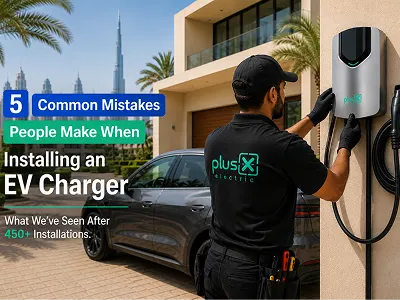
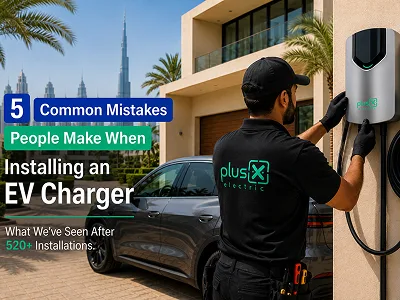
update facts number

diff --git a/src/components/roadsideAssistanceService/rsaIntro/rsaIntro.jsx b/src/components/roadsideAssistanceService/rsaIntro/rsaIntro.jsx
@@ -3,7 +3,7 @@ import IntroSection from "@/sharedComponents/introSection/introSection";
 const introData = [
   {
     // title   : "EV Breakdown Assistance in Dubai",
-    content           : `Stuck on Sheikh Zayed Road with a dead battery? Parked in Marina and your EV won't start? We'll reach you within 60 minutes*, depending on \nyour location, and in most cases, you won't need a tow — we charge your EV on the spot. At <a href="https://plusxelectric.com/" target="__blank">PlusX Electric</a>, we've rescued more than 1000+ \nelectric vehicles across Dubai, with an average response time of under 60 minutes. We've learned one thing that matters: traditional \nbreakdown services aren't built for EVs. They arrive with a tow truck when all you really need is a charge. Our team comes with a \n<a href="https://plusxelectric.com/mobile-ev-charging-dubai" target="__blank">mobile charging van</a>, delivers up to 10 kWh of DEWA-approved power directly into your battery — roughly 50 to 70 km of range \n— and gets you moving again, starting from AED 185* + VAT. If your car won't start because the 12V auxiliary battery is dead \n(which causes roughly half of all EV breakdowns in Dubai), we jump-start it on the spot. Your main battery could be at 80 \npercent — the car just needs its 12V woken up. We fix that in 15 minutes. No tow truck. No workshop. No wasted day. \nWhether you're driving a Tesla, BYD, BMW, Mercedes EQ, Nissan, Audi, Hyundai, Porsche, MG, or any other electric \nmodel, we've got it covered. We serve every area of Dubai — from Downtown and Business Bay to Palm \nJumeirah and beyond — 24 hours a day, 7 days a week. We also reach building parking garages,\n hotel underground areas, and villa compounds where tow trucks physically cannot enter. Book \ninstantly through the PlusX Electric app (trusted by 11000+ EV drivers in the\n UAE), or call us on <a href="tel:+971543061473">+971 54 306 1473</a> if you're already stranded.`,
+    content           : `Stuck on Sheikh Zayed Road with a dead battery? Parked in Marina and your EV won't start? We'll reach you within 60 minutes*, depending on \nyour location, and in most cases, you won't need a tow — we charge your EV on the spot. At <a href="https://plusxelectric.com/" target="__blank">PlusX Electric</a>, we've rescued more than 1,150+ \nelectric vehicles across Dubai, with an average response time of under 60 minutes. We've learned one thing that matters: traditional \nbreakdown services aren't built for EVs. They arrive with a tow truck when all you really need is a charge. Our team comes with a \n<a href="https://plusxelectric.com/mobile-ev-charging-dubai" target="__blank">mobile charging van</a>, delivers up to 10 kWh of DEWA-approved power directly into your battery — roughly 50 to 70 km of range \n— and gets you moving again, starting from AED 185* + VAT. If your car won't start because the 12V auxiliary battery is dead \n(which causes roughly half of all EV breakdowns in Dubai), we jump-start it on the spot. Your main battery could be at 80 \npercent — the car just needs its 12V woken up. We fix that in 15 minutes. No tow truck. No workshop. No wasted day. \nWhether you're driving a Tesla, BYD, BMW, Mercedes EQ, Nissan, Audi, Hyundai, Porsche, MG, or any other electric \nmodel, we've got it covered. We serve every area of Dubai — from Downtown and Business Bay to Palm \nJumeirah and beyond — 24 hours a day, 7 days a week. We also reach building parking garages,\n hotel underground areas, and villa compounds where tow trucks physically cannot enter. Book \ninstantly through the PlusX Electric app (trusted by 12,300+ EV drivers in the\n UAE), or call us on <a href="tel:+971543061473">+971 54 306 1473</a> if you're already stranded.`,
     additionalContent : `<i>Final price may vary based on time of service, location, and additional requirements. Confirmed quote shown in the app before dispatch.</i>`,
     
     // secondTitle      : "What Is EV Breakdown Assistance?",

diff --git a/src/data/blogsList/fiveCommonMistakes.js b/src/data/blogsList/fiveCommonMistakes.js
@@ -18,7 +18,7 @@ export const fiveCommonMistakes = [
   },
   {
     type: "paragraph",
-    text: `After 450+ installs across Dubai, Abu Dhabi and the rest of the UAE — in villas, flats, townhouses, and a few homes where the power point was a long way from the car — we don't see these as one-off problems anymore. They are patterns. The same few mistakes come up in every emirate. And almost all of them happen before we arrive, usually in a car showroom, decided by someone whose job was to sell a car, not to think about how your home is wired.`,
+    text: `After 520+ installs across Dubai, Abu Dhabi and the rest of the UAE — in villas, flats, townhouses, and a few homes where the power point was a long way from the car — we don't see these as one-off problems anymore. They are patterns. The same few mistakes come up in every emirate. And almost all of them happen before we arrive, usually in a car showroom, decided by someone whose job was to sell a car, not to think about how your home is wired.`,
   },
   {
     type: "paragraph",
@@ -212,7 +212,7 @@ export const fiveCommonMistakes = [
   },
   {
     type: "paragraph",
-    text: "That is the difference 450 installs makes. We are not here to sell you the most powerful box on the shelf. We would rather spend ten minutes finding out what your car can actually take, how much power your home can spare in August, how far the cable has to go, and where the unit can sit out of the sun — and then build the install around those answers."
+    text: "That is the difference 520 installs makes. We are not here to sell you the most powerful box on the shelf. We would rather spend ten minutes finding out what your car can actually take, how much power your home can spare in August, how far the cable has to go, and where the unit can sit out of the sun — and then build the install around those answers."
   },
   {
     type: "paragraph",
@@ -291,9 +291,9 @@ export const fiveCommonMistakes = [
         "@context": "https://schema.org",
         "@type": "Article",
 
-        "headline": "5 Common Mistakes People Make When Installing an EV Charger: What We've Seen After 450 Installations",
+        "headline": "5 Common Mistakes People Make When Installing an EV Charger: What We've Seen After 520 Installations",
         "name": "5 EV Charger Installation Mistakes to Avoid | PlusX Electric",
-        "description": "After 450+ EV charger installations across the UAE, discover the five most common installation mistakes—including choosing the wrong charger size, inadequate electrical capacity, incorrect cabling, missing safety isolation, and poor charger placement—and learn how to avoid them.",
+        "description": "After 520+ EV charger installations across the UAE, discover the five most common installation mistakes—including choosing the wrong charger size, inadequate electrical capacity, incorrect cabling, missing safety isolation, and poor charger placement—and learn how to avoid them.",
         "image": `${BASE_URL}${blogImage.src}`,
 
         "author": {
@@ -351,7 +351,7 @@ export const fiveCommonMistakes = [
         "about": {
           "@type": "Thing",
           "name": "Common EV Charger Installation Mistakes in the UAE",
-          "description": "A practical guide based on more than 450 EV charger installations explaining how to choose the correct charger, assess home electrical capacity, select proper cabling, ensure electrical safety, and install chargers in suitable outdoor locations."
+          "description": "A practical guide based on more than 520 EV charger installations explaining how to choose the correct charger, assess home electrical capacity, select proper cabling, ensure electrical safety, and install chargers in suitable outdoor locations."
         },
 
         "isPartOf": {

diff --git a/src/app/(main)/(services)/ev-breakdown-assistance/page.jsx b/src/app/(main)/(services)/ev-breakdown-assistance/page.jsx
@@ -18,7 +18,7 @@ import StickyBar    from "@/components/roadsideAssistance/mobileStickyBar/mobile
 const BASE_URL = process.env.NEXT_PUBLIC_BASE_URL;
 export const metadata = {
   title         : "EV Roadside Assistance Dubai | Emergency EV Charging 24/7",
-  description   : "1000+ EVs rescued across Dubai. We charge your EV on the spot — no tow. 12V jump-start included. EV breakdown assistance in 60 min*, from AED 185 + VAT.",
+  description   : "1,150+ EVs rescued across Dubai. We charge your EV on the spot — no tow. 12V jump-start included. EV breakdown assistance in 60 min*, from AED 185 + VAT.",
   // keywords      : ["plusx", "plusxelectric", "plusx electric", "EV Roadside Assistance service", "On-demand EV roadside assistance service", "emergency ev charging service in dubai", "emergency ev roadside assistance"],
   alternates    : {
       canonical : `${BASE_URL}/ev-breakdown-assistance`,
@@ -28,7 +28,7 @@ export const metadata = {
    },
   openGraph     : {
     title       : "EV Roadside Assistance Dubai | Emergency EV Charging 24/7 | PlusX Electric",
-    description : "1000+ EVs rescued across Dubai. We charge your EV on the spot — no tow. 12V jump-start included. EV breakdown assistance in 60 min*, from AED 185 + VAT.",
+    description : "1,150+ EVs rescued across Dubai. We charge your EV on the spot — no tow. 12V jump-start included. EV breakdown assistance in 60 min*, from AED 185 + VAT.",
     url         : `${BASE_URL}/ev-breakdown-assistance`,
     type        : "website",
     siteName    : "PlusX Electric",
@@ -48,7 +48,7 @@ export const metadata = {
     card        : "summary_large_image",
     site        : "@plusxelectric",
     title       : "EV Roadside Assistance Dubai | Emergency EV Charging 24/7 | PlusX Electric",
-    description : "1000+ EVs rescued across Dubai. We charge your EV on the spot — no tow. 12V jump-start included. EV breakdown assistance in 60 min*, from AED 185 + VAT.",
+    description : "1,150+ EVs rescued across Dubai. We charge your EV on the spot — no tow. 12V jump-start included. EV breakdown assistance in 60 min*, from AED 185 + VAT.",
     images      : [
       {
         url : "https://plusxelectric.com/PlusX-Electric-EV-roadside-assistance-in-dubai.jpeg",
@@ -64,7 +64,7 @@ const structuredData = {
   "@id"           : "https://plusxelectric.com/ev-breakdown-assistance#service",
   "name"          : "EV Breakdown Assistance in Dubai",
   "alternateName" : [ "EV Roadside Assistance Dubai", "Electric Vehicle Rescue Dubai", "EV Emergency Service Dubai" ],
-  "description"   : "24/7 EV breakdown assistance in Dubai with on-site mobile charging and 12V jump-start service. PlusX Electric has rescued 1000+ electric vehicles across Dubai with a typical response time of 60 minutes. No unnecessary towing — we bring the charge to you.",
+  "description"   : "24/7 EV breakdown assistance in Dubai with on-site mobile charging and 12V jump-start service. PlusX Electric has rescued 1,150+ electric vehicles across Dubai with a typical response time of 60 minutes. No unnecessary towing — we bring the charge to you.",
   "url"           : `${BASE_URL}/ev-breakdown-assistance`,
   "serviceType"   : "Electric Vehicle Breakdown Assistance",
   "category"      : "Automotive Emergency Service",

diff --git a/src/components/roadsideAssistanceService/whyChoose/whyChoose.jsx b/src/components/roadsideAssistanceService/whyChoose/whyChoose.jsx
@@ -27,7 +27,7 @@ function WhyChoose() {
 
             <ul className={style.keyPoint}>
               {/* <li>EV Specialists, Not Generic Mechanics</li>
-              <li>1000+ EVs Rescued Across Dubai</li>
+              <li>1,150+ EVs Rescued Across Dubai</li>
               <li>60-Minute Response Time (depending on your location)</li>
               <li>No Unnecessary Towing</li>
               <li>Instant Booking Through the App</li>
@@ -36,11 +36,11 @@ function WhyChoose() {
               {/* <li><Link href="/mobile-ev-charging-dubai" target="__blank" className={style.linkColor}>Mobile on-site EV charging</Link> units</li> */}
 
               <li><b>EV Specialists, Not Generic Mechanics —</b> Our technicians are trained specifically on electric vehicle systems, including high-voltage battery packs, 12V auxiliary diagnostics, and charge port troubleshooting across all major brands.</li>
-              <li><b>1000+ EVs Rescued Across Dubai —</b> Real experience with real breakdowns, not theoretical training. We&apos;ve handled dead batteries on Sheikh Zayed Road, 12V failures in JLT building parking, and stuck charge connectors in Palm Jumeirah villas.</li>
-              <li><b>60-Minute Response Time —</b> Depending on your location, our average dispatch-to-arrival time across 1000+ rescues is under 60 minutes.</li>
+              <li><b>1,150+ EVs Rescued Across Dubai —</b> Real experience with real breakdowns, not theoretical training. We&apos;ve handled dead batteries on Sheikh Zayed Road, 12V failures in JLT building parking, and stuck charge connectors in Palm Jumeirah villas.</li>
+              <li><b>60-Minute Response Time —</b> Depending on your location, our average dispatch-to-arrival time across 1,150+ rescues is under 60 minutes.</li>
               <li><b>No Unnecessary Towing —</b> We resolve the vast majority of breakdowns on-site with mobile charging or 12V jump-start. Towing is used only when on-site recovery is genuinely not feasible.</li>
               <li><b>Building Parking Access —</b>  Our vans fit in building parking garages where flatbed tow trucks cannot enter. We reach underground levels, podium parking, and multi-storey structures across Dubai.</li>
-              <li><b>Instant Booking Through the App —</b>  The PlusX Electric app is trusted by 11000+ EV drivers in the UAE. Book a rescue in under 60 seconds. <i>Transparent Pricing — From AED 185* + VAT</i> — No hidden fees. Your confirmed quote is shown in the app before dispatch.</li>
+              <li><b>Instant Booking Through the App —</b>  The PlusX Electric app is trusted by 12,300+ EV drivers in the UAE. Book a rescue in under 60 seconds. <i>Transparent Pricing — From AED 185* + VAT</i> — No hidden fees. Your confirmed quote is shown in the app before dispatch.</li>
               <li><b>Available 24/7, Every Day of the Year —</b>  Breakdowns don&apos;t follow business hours. Neither do we.</li>
             </ul>
 

diff --git a/src/data/testimonials.js b/src/data/testimonials.js
@@ -90,20 +90,20 @@ export const testimonials = [
   },
   {
     slug            : "ev-charger-installation-mistakes-uae",
-    title           : "5 Common Mistakes People Make When Installing an EV Charger What We've Seen After 450+ Installations",
+    title           : "5 Common Mistakes People Make When Installing an EV Charger What We've Seen After 520+ Installations",
     image           : commonMistakes,
     alt             : "PlusX Electric technician installing a home EV charger on a villa wall in the UAE",
     metaTitle       : "5 EV Charger Installation Mistakes to Avoid | PlusX Electric",
-    metaDescription : "After 450+ EV charger installs across the UAE, see the 5 mistakes owners make — wrong charger size, weak supply, cheap cable, no isolator, poor placement.",
+    metaDescription : "After 520+ EV charger installs across the UAE, see the 5 mistakes owners make — wrong charger size, weak supply, cheap cable, no isolator, poor placement.",
     content         : fiveCommonMistakes,
   },
   {
     slug            : "ev-battery-mistakes-dubai",
-    title           : "9 EV Battery Mistakes We See Every Week in Dubai After Servicing 6,800+ EVs",
+    title           : "9 EV Battery Mistakes We See Every Week in Dubai After Servicing 12,300+ EVs",
     image           : evBattaryMistake,
     alt             : "EV Battery Mistakes in Dubai",
     metaTitle       : "9 EV Battery Mistakes Dubai Drivers Make Guide by PlusX Electric",
-    metaDescription : "After servicing 6,800+ electric vehicles across Dubai, these are the 9 EV battery-killing habits our team see most and how to fix each one before it costs you range.",
+    metaDescription : "After servicing 12,300+ electric vehicles across Dubai, these are the 9 EV battery-killing habits our team see most and how to fix each one before it costs you range.",
     content         : batteryMistakes,
   },
   {
@@ -225,7 +225,7 @@ export const testimonials = [
     image           : TrustPlusX,
     alt             : "why ev owners trust PlusX Electric",
     metaTitle       : "EV Breakdown Dubai: Why Drivers Trust PlusX Electric",
-    metaDescription : "EV breakdown Dubai due to low charge? PlusX Electric has rescued 1000+ EVs with an 87% success rate on-site charging, jump start & 12V support.",
+    metaDescription : "EV breakdown Dubai due to low charge? PlusX Electric has rescued 1,150+ EVs with an 87% success rate on-site charging, jump start & 12V support.",
     content         : trustPlusx,
     stickyBar       : "roadside",
   },

diff --git a/src/components/evChargerDubaiApartments/intro/intro.jsx b/src/components/evChargerDubaiApartments/intro/intro.jsx
@@ -3,7 +3,7 @@ import IntroSection from "@/sharedComponents/introSection/introSection";
 const introData = [
   {
     title   : `We Know Installing an EV Charger in an Apartment Is Different`,
-    content : `Villa owners plug in and go. For apartment residents, it's not that simple. You need your building's NOC, and most owners associations have \nnever approved an EV charger before. Your parking might be nowhere near the electrical room. You're not sure whether you can take \nconnection from common building power or need to connect to power  from your apartment. And the last thing you want is to try \ngetting on a <a href="/ev-charger-installation-uae" target="__blank">EV charger</a> only to be told "no" by your building manager. This is where PlusX Electric comes in. With 450+ chargers \ninstalled across the UAE, having worked with building managements like Dubai Holdings Community management, Kaizen, \neyc, we know the process, the paperwork, and the right approach. We handle all of it. You get a working EV charger in \nyour parking spot of your apartment building — and the app on your phone to control it. We offer a variety of \nchargers as per customer needs and feasibility of use. If you have your own charger, we can\n provide the end to end installation process as well. `,
+    content : `Villa owners plug in and go. For apartment residents, it's not that simple. You need your building's NOC, and most owners associations have \nnever approved an EV charger before. Your parking might be nowhere near the electrical room. You're not sure whether you can take \nconnection from common building power or need to connect to power  from your apartment. And the last thing you want is to try \ngetting on a <a href="/ev-charger-installation-uae" target="__blank">EV charger</a> only to be told "no" by your building manager. This is where PlusX Electric comes in. With 520+ chargers \ninstalled across the UAE, having worked with building managements like Dubai Holdings Community management, Kaizen, \neyc, we know the process, the paperwork, and the right approach. We handle all of it. You get a working EV charger in \nyour parking spot of your apartment building — and the app on your phone to control it. We offer a variety of \nchargers as per customer needs and feasibility of use. If you have your own charger, we can\n provide the end to end installation process as well. `,
   },
 ];
 

diff --git a/src/data/blogsList/trustPlusx.js b/src/data/blogsList/trustPlusx.js
@@ -21,7 +21,7 @@ export const trustPlusx = [
     headerText: `Trust comes from results. PlusX Electric’s <a href="https://plusxelectric.com/ev-breakdown-assistance" target='blank'>EV roadside assistance Dubai</a> operations are built around the most common EV emergency in Dubai like low or zero charge. <br/> Till date:`,
     type: "ul",
     items: [
-      "1000+ EVs rescued from breakdowns caused by low or zero charge",
+      "1,150+ EVs rescued from breakdowns caused by low or zero charge",
       "87% service success rate in EV rescue operations",
     ],
     footerText: `That means most drivers get back on the road without unnecessary delays or complicated recovery.`,
@@ -132,7 +132,7 @@ export const trustPlusx = [
     headerText: `A drained battery on Dubai roads is frustrating, but it doesn’t need to become a long ordeal. The safest choice is a provider that understands EV systems and has proven rescue performance.<br/>PlusX Electric is trusted by EV owners across Dubai because we deliver:`,
     type: "ul",
     items: [
-      "1000+ low/zero-charge rescues",
+      "1,150+ low/zero-charge rescues",
       "87% success rate in EV rescue operations",
       "dedicated EV rescue team",
       "up to 10 kWh or ~50 km emergency range support",
@@ -195,7 +195,7 @@ export const trustPlusx = [
         "@type"       : "Article",
         "headline"    : "Why EV Owners Trust PlusX Electric When Their EV Battery Drains on Dubai Roads",
         "name"        : "Why EV Owners Trust PlusX Electric When Their EV Battery Drains on Dubai Roads | PlusX Electric",
-        "description" : "EV breakdown Dubai due to low charge? PlusX Electric has rescued 1000+ EVs with an 87% success rate, offering on-site charging, jump start and 12V support for stranded EV drivers.",
+        "description" : "EV breakdown Dubai due to low charge? PlusX Electric has rescued 1,150+ EVs with an 87% success rate, offering on-site charging, jump start and 12V support for stranded EV drivers.",
         "image"       : `${BASE_URL}${blogImage.src}`,
         "author"      : {
           "@type"     : "Person",

diff --git a/src/components/roadsideAssistance/rsaIntro/rsaIntro.jsx b/src/components/roadsideAssistance/rsaIntro/rsaIntro.jsx
@@ -3,7 +3,7 @@ import IntroSection from "@/sharedComponents/introSection/introSection";
 const introData = [
   {
     maintitle         : "EV Roadside Assistance in Dubai",
-    content           : `We've rescued 1,000+ electric vehicles across Dubai. If your EV is out of charge, we charge it on the spot — up to 10 kWh, around 50 km of \nrange — so you drive away instead of being towed. If your 12V battery is dead, we jump-start it on site. EV roadside assistance \nacross Dubai, 24/7. 60-minute average arrival. From AED 185 + VAT. Our team arrives in a <a href="/mobile-ev-charging-dubai" target="_blank">mobile charging van</a>, jump-\nstarts your 12V battery if the EV is dead or inaccessible, and charges your EV on the spot. Tesla, BYD, BMW, VinFast, \nMercedes EQ, Polestar, Lucid, Porsche — 50+ models supported. Every area of Dubai, every hour of the year.`,
+    content           : `We've rescued 1,150+ electric vehicles across Dubai. If your EV is out of charge, we charge it on the spot — up to 10 kWh, around 50 km of \nrange — so you drive away instead of being towed. If your 12V battery is dead, we jump-start it on site. EV roadside assistance \nacross Dubai, 24/7. 60-minute average arrival. From AED 185 + VAT. Our team arrives in a <a href="/mobile-ev-charging-dubai" target="_blank">mobile charging van</a>, jump-\nstarts your 12V battery if the EV is dead or inaccessible, and charges your EV on the spot. Tesla, BYD, BMW, VinFast, \nMercedes EQ, Polestar, Lucid, Porsche — 50+ models supported. Every area of Dubai, every hour of the year.`,
     additionalContent : `<i>Final price may vary based on time of service, location, and additional requirements. Confirmed quote shown in the app before dispatch.</i>`,
     primaryButtons    : [
       {

diff --git a/src/data/blogsList/evBatteryMistakes.js b/src/data/blogsList/evBatteryMistakes.js
@@ -12,7 +12,7 @@ export const batteryMistakes = [
   },
   {
     type: "paragraph",
-    text: `At PlusX Electric, our team has serviced more than 6,800 electric vehicles across Dubai. Teslas, BYDs, Polestars, Mercedes EQs, and almost every other EV on UAE roads. That gives us something most battery guides don't have: a pattern. The same preventable problems arrive at our workshop week after week, and most of them have nothing to do with the battery technology itself. They come from habits.`,
+    text: `At PlusX Electric, our team has serviced more than 12,300 electric vehicles across Dubai. Teslas, BYDs, Polestars, Mercedes EQs, and almost every other EV on UAE roads. That gives us something most battery guides don't have: a pattern. The same preventable problems arrive at our workshop week after week, and most of them have nothing to do with the battery technology itself. They come from habits.`,
   },
   {
     type: "paragraph",
@@ -233,7 +233,7 @@ export const batteryMistakes = [
         "@type"       : "Article",
         "headline"    : "9 EV Battery Mistakes Dubai Drivers Make: Guide by PlusX Electric",
         "name"        : "9 EV Battery Mistakes Dubai Drivers Make | PlusX Electric",
-        "description" : "After servicing 6,800+ electric vehicles across Dubai, these are the 9 EV battery-killing habits our team see most and how to fix each one before it costs you range.",
+        "description" : "After servicing 12,300+ electric vehicles across Dubai, these are the 9 EV battery-killing habits our team see most and how to fix each one before it costs you range.",
         "image"       : `${BASE_URL}${blogImage.src}`,
 
         "author"      : {

diff --git a/src/app/(main)/page.jsx b/src/app/(main)/page.jsx
@@ -17,7 +17,7 @@ import Faqs           from "@/components/homepage/faqs/faqs";
 
 export const metadata = {
   title         : "PlusX Electric — EV Charging Services Dubai | All-in-One EV App",
-  description   : "PlusX Electric is Dubai's leading EV charging services company. One app for every EV need — charging, support, and maintenance. Trusted by 11000+ EV owners across the UAE.",
+  description   : "PlusX Electric is Dubai's leading EV charging services company. One app for every EV need — charging, support, and maintenance. Trusted by 12,300+ EV owners across the UAE.",
   // keywords      : ["plusx", "plusxelectric", "plusx electric", "portable ev charger", "on demand ev charging service in dubai", "doorstep ev charging service", "fast electric chargers near me", 
   //                  "ev roadside assistance service", "emergency roadside charging", "buy or renew ev insurance in minutes", "find public ev charging station", "ev charger share service"],
   alternates    : {
@@ -28,7 +28,7 @@ export const metadata = {
   },
   openGraph     : {
     title       : "PlusX Electric — EV Charging Services Dubai | All-in-One EV App",
-    description : "PlusX Electric is Dubai's leading EV charging services company. One app for every EV need — charging, support, and maintenance. Trusted by 11000+ EV owners across the UAE.",
+    description : "PlusX Electric is Dubai's leading EV charging services company. One app for every EV need — charging, support, and maintenance. Trusted by 12,300+ EV owners across the UAE.",
     url         : "https://plusxelectric.com/",
     type        : "website",
     siteName    : "PlusX Electric",

diff --git a/src/components/homepage/achievements/achievements.jsx b/src/components/homepage/achievements/achievements.jsx
@@ -16,7 +16,7 @@ function Achievements() {
             <div className={`${style.content}`}>
               <Image src={EvCarDriver} alt="EVs rescued with roadside assistance" width={65} height={65} />
               <div className={`${style.innerContent}`}>
-                <span className={`${style.counter}`}>1,000+</span>
+                <span className={`${style.counter}`}>1,150+</span>
                 <p className={`${style.title}`}>EVs Rescued  <br className={`${style.breakLine}`} />with RSA Service</p>
               </div>
             </div>
@@ -26,7 +26,7 @@ function Achievements() {
             <div className={`${style.content}`}>
               <Image src={Booking} alt="EVs charged by PlusX power pod" width={65} height={65} />
               <div className={`${style.innerContent}`}>
-                <span className={`${style.counter}`}>11,000+</span>
+                <span className={`${style.counter}`}>12,300+</span>
                 <p className={`${style.title}`}>EVs Charged by  <br className={`${style.breakLine}`} />Power Pod</p>
               </div>
             </div>
@@ -36,7 +36,7 @@ function Achievements() {
             <div className={`${style.content}`}>
               <Image src={Station} alt="EV chargers installed across UAE" width={65} height={65} />
               <div className={`${style.innerContent}`}>
-                <span className={`${style.counter}`}>450+</span>
+                <span className={`${style.counter}`}>520+</span>
                 <p className={`${style.title}`}>EV Chargers Installed Across UAE</p> 
                 {/* <br className={`${style.breakLine}`}UAE--> */}
               </div>

diff --git a/src/app/(main)/(services)/ev-charger-installation-uae/(products)/page.jsx b/src/app/(main)/(services)/ev-charger-installation-uae/(products)/page.jsx
@@ -22,7 +22,7 @@ import Faq          from "@/components/chargerInstallation/chargerFAQ/chargerFAQ
 const BASE_URL = process.env.NEXT_PUBLIC_BASE_URL;
 export const metadata = {
   title         : "DEWA Approved EV Charger Installation Dubai | PlusX",
-  description   : "DEWA-approved EV charger installation in Dubai & UAE. 450+ chargers installed, free site survey, installation starts from AED 999, 1-year workmanship warranty.",
+  description   : "DEWA-approved EV charger installation in Dubai & UAE. 520+ chargers installed, free site survey, installation starts from AED 999, 1-year workmanship warranty.",
   // keywords      : ["plusx", "plusxelectric", "plusx electric", "EV Charger installation services", "residential and commercial charger", "buy ev charger", "ev charger for home & offices", "ev charger supplier near me"],
   alternates    : {
       canonical : `${BASE_URL}/ev-charger-installation-uae`,
@@ -38,7 +38,7 @@ const ServiceSchema = {
   "@id"         : "https://plusxelectric.com/ev-charger-installation-uae#service",
   "name"        : "DEWA Approved EV Charger Installation Dubai",
   "serviceType" : "EV Charger Installation",
-  "description" : "DEWA-approved EV charger installation in Dubai & UAE. 450+ chargers installed, free site survey, installation starts from AED 999, 1-year workmanship warranty.",
+  "description" : "DEWA-approved EV charger installation in Dubai & UAE. 520+ chargers installed, free site survey, installation starts from AED 999, 1-year workmanship warranty.",
   "url"         : `${BASE_URL}/ev-charger-installation-uae`,
   "provider": {
     "@type"     : "LocalBusiness",
